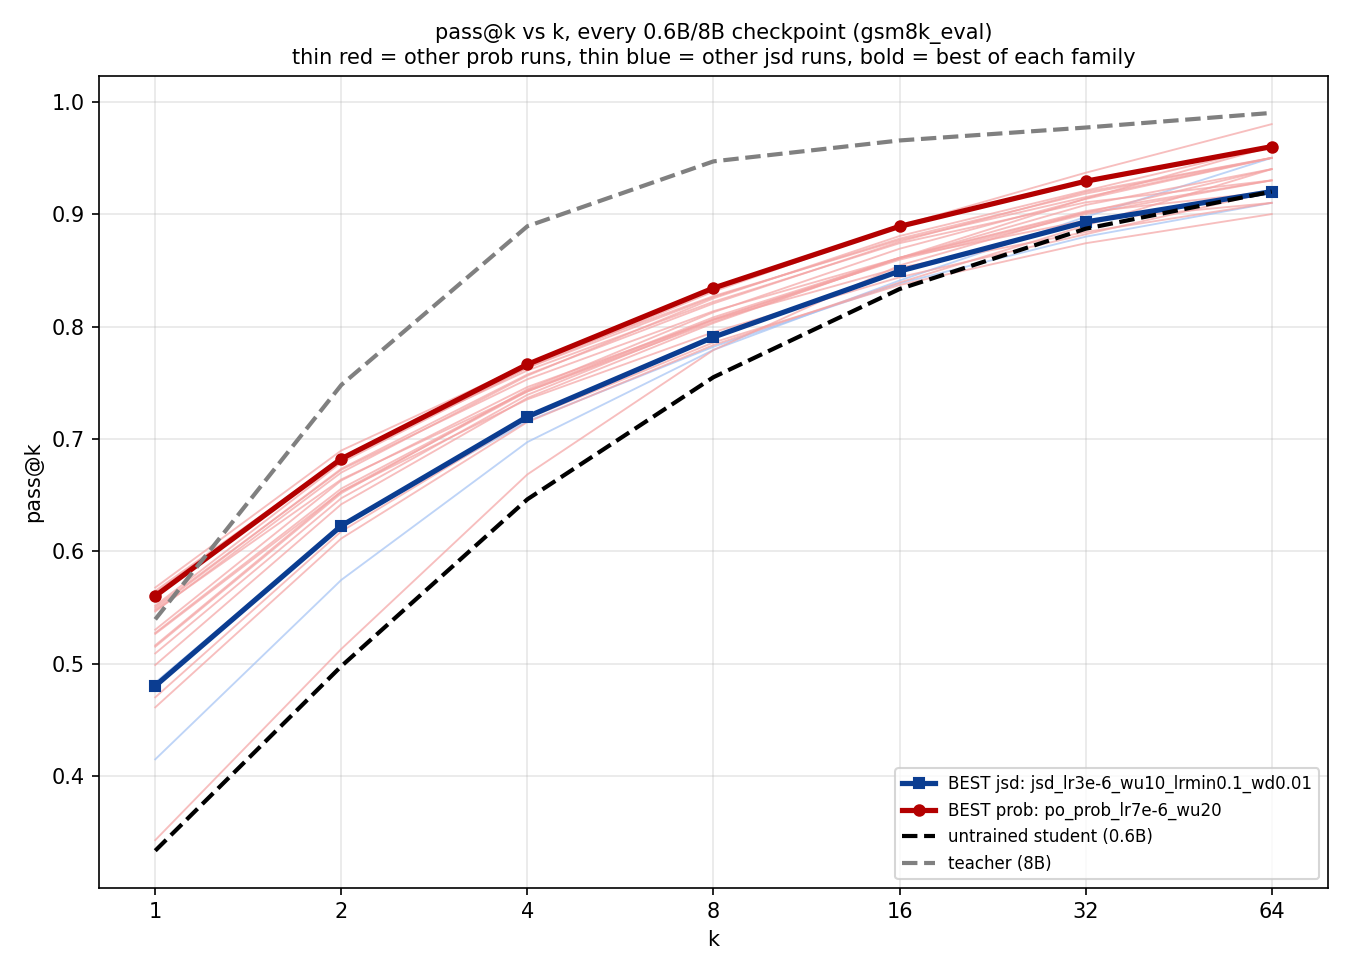
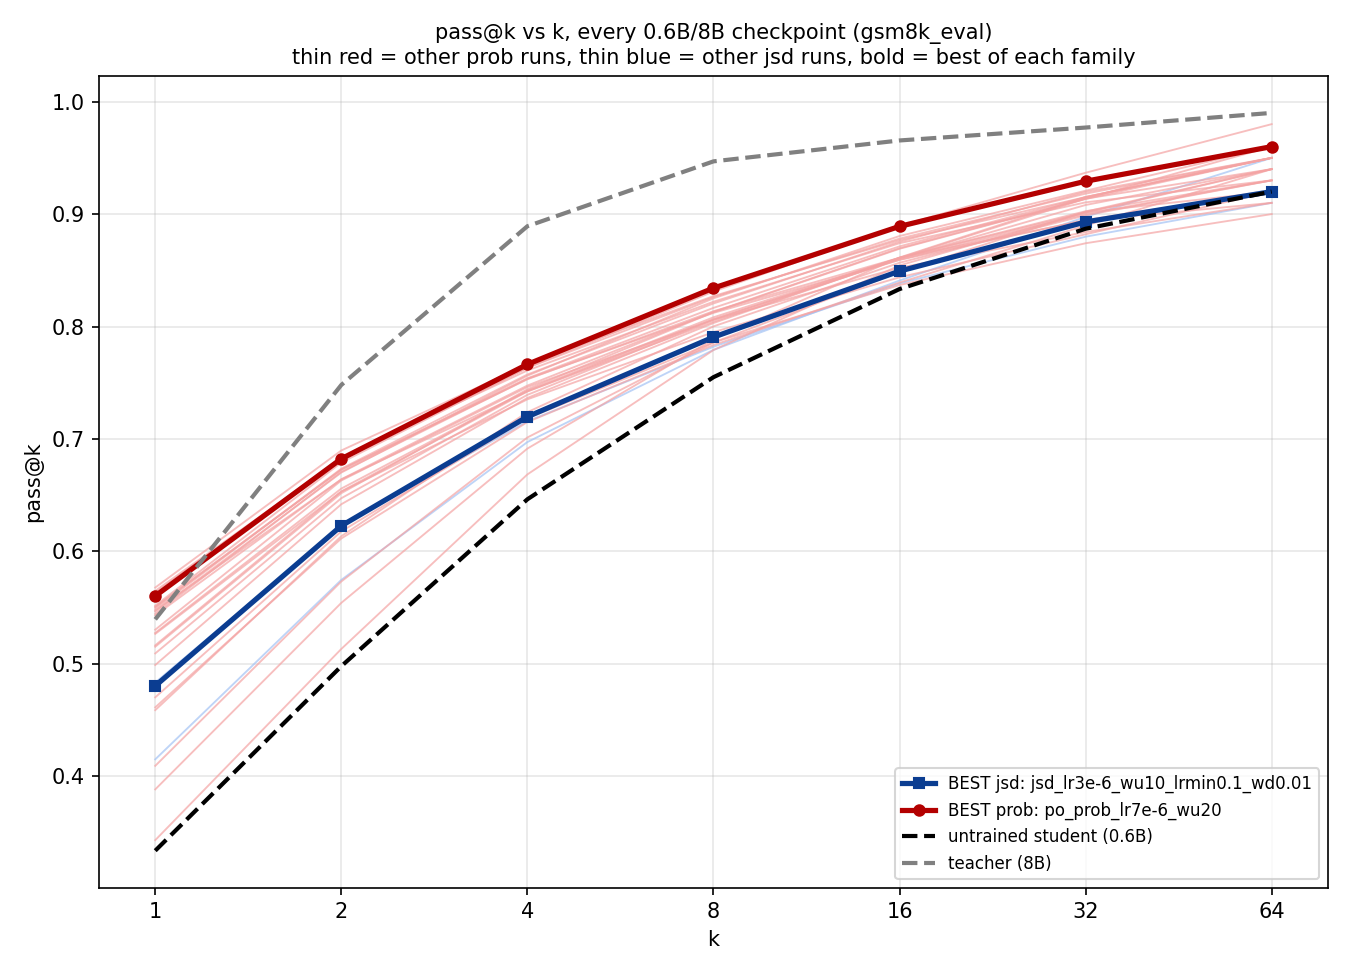
docs(notes): drop flawed jsd-vs-jsd caveat, add real pass@k chart from updated ckpt_best data
- results/passK/passk_hparam_sweep.csv updated with recent runs (gradclip100/1000,
  M16_cold, multiroot N16/randoff/N32) -- was stale, missing 126 rows.
- Regenerated passk_curves_all_{math_eval,gsm8k_eval,olympiad_eval}.png via
  scripts/plot_passk_curves_all.py against the updated CSV.
- Removed the jsd_lr1e-6-vs-jsd_lr1e-5 caveat from the note -- both are jsd
  family, comparing them says nothing about whether prob beats jsd.
- Added the gsm8k_eval chart directly to the note: best-prob (lr7e-6_wu20)
  visibly beats best-jsd across nearly the whole curve, both above student,
  below teacher.

diff --git a/notes/passk_diversity_collapse_research_note.md b/notes/passk_diversity_collapse_research_note.md
@@ -6,8 +6,8 @@
 `c` correct among them, averaged over 100 held-out prompts. At `k=n=64` this
 is just "did ≥1 of 64 tries succeed" per prompt.
 
-All findings below use real `ckpt_best` offline eval (`passk_eval.py`, not
-wandb approximations), 27 checkpoints, `results/passK/passk_hparam_sweep.csv`.
+All findings below use real `ckpt_best` offline eval, not wandb
+approximations — 27 checkpoints, `results/passK/passk_hparam_sweep.csv`.
 Noise floor = 2×std(pass@k) across the flat low-LR `prob` cluster, per k per
 dataset (same method as `scripts/analyze_passk_movement.py`) — a delta only
 counts as real if it clears this.
@@ -30,16 +30,22 @@ counts as real if it clears this.
   - `gsm8k_eval`: **~15/27** clear the floor, concentrated at k16/k32/k64
     — **the one dataset where several `prob` configs genuinely beat jsd on
     pass@k**, each at a real BE cost (their `best_val_block_eff` sits
-    0.18–0.46 below jsd's 5.994). Caveat: even jsd's own `lr1e-6` sibling
-    clears jsd's `lr1e-5` pick's k64 by 0.04 — part of this may be
-    ceiling-effect noise on an already-saturated benchmark, not a clean
-    prob-vs-jsd effect. Treat the 15/27 count as directional.
+    0.18–0.46 below jsd's 5.994).
+
+  ![pass@k, every checkpoint, gsm8k_eval](../results/passK/passk_curves_all_gsm8k_eval.png)
+
+  Best-of-family by pass@k gap-closed (a different, hindsight selection
+  criterion than the BE-deployed-pick comparison above — see chart):
+  `po_prob_lr7e-6_wu20` sits clearly above jsd's own best-pass@k pick
+  (`jsd_lr3e-6_wu10_lrmin0.1_wd0.01`) across nearly the entire curve, both
+  above the untrained student and below the teacher — the clearest visual
+  confirmation of the floor-gated result above.
 
 - **Multi-root (N=16, N=16+random-offset, N=32) consistently beats jsd on
   `gsm8k` k32/k64** — all three tested clear the floor at both k32 and k64
   (deltas 0.022–0.04 vs floor 0.021–0.028). Plain N=16 (no offset) has the
   broadest effect, also clearing k16 (Δ=0.031). **Winner: yes, consistent
-  across the whole N-family tested** (same ceiling-effect caveat above).
+  across the whole N-family tested.**
 
 - **Grad_clip does NOT show a consistent pass@k effect** — `gradclip100`
   clears `gsm8k` k16/k32/k64 (Δ 0.033–0.04); `gradclip1000` clears nothing
@@ -78,6 +84,6 @@ monotonic at every k — confirms the pass@k math itself is correct.
 - `math_eval` and `olympiad_eval` pass@k differences are not currently
   usable as a go/no-go signal — nothing clears a real floor there.
 - `gsm8k_eval` at k16/k32/k64, floor-gated, is currently the most useful
-  lens for a real prob-vs-jsd gap — with the ceiling-effect caveat above.
+  lens for a real prob-vs-jsd gap.
 - Re-derive the floor whenever the checkpoint set changes; it moves as new
   runs join the reference cluster.
